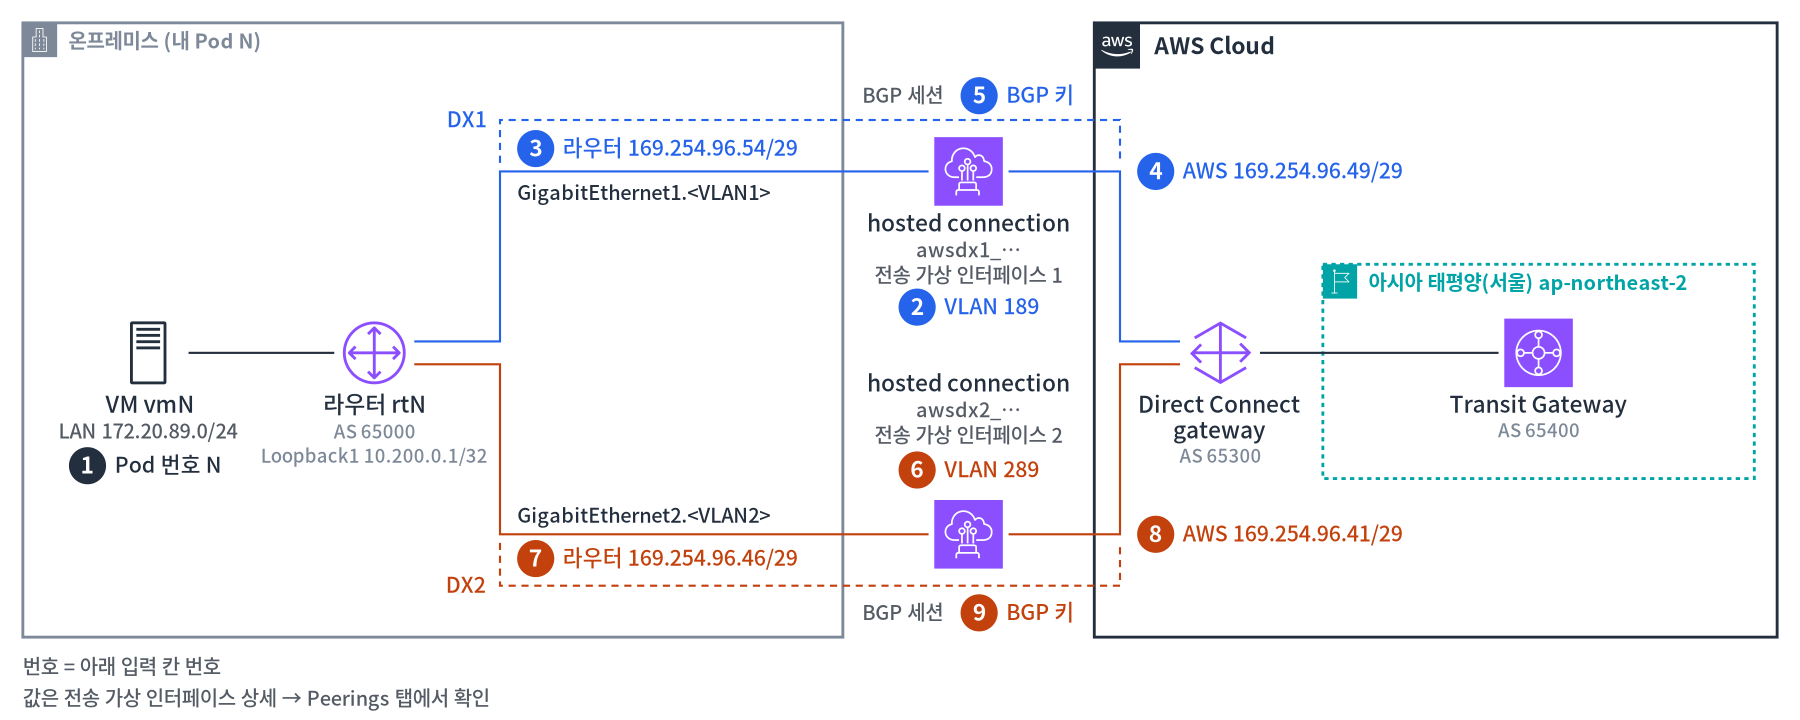
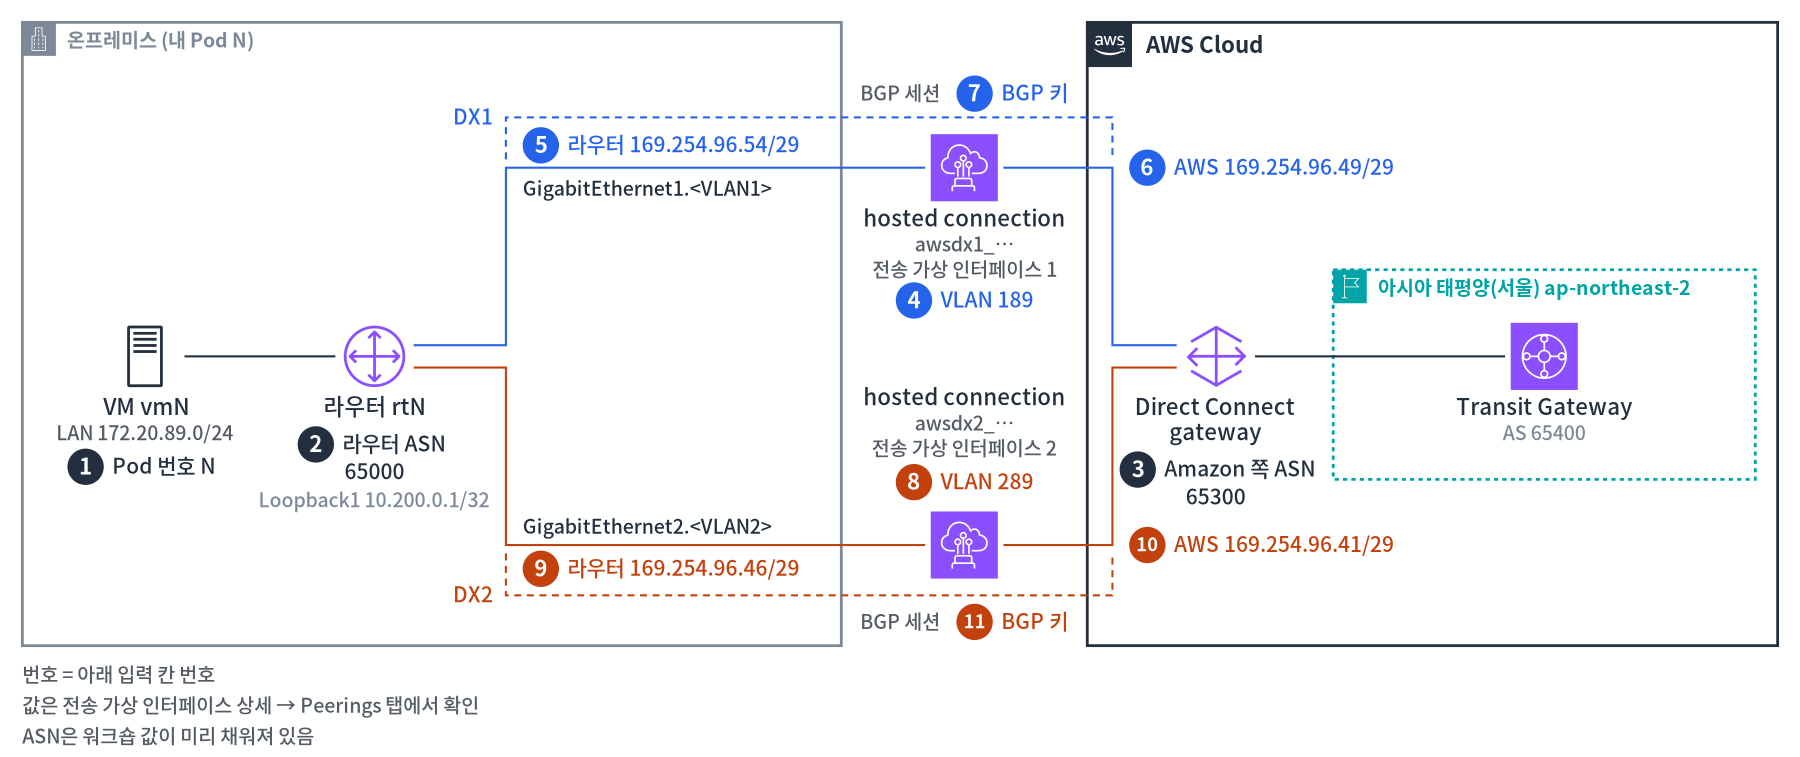
Prefill the router and Amazon-side ASNs in the generator and renumber the value-map badges to match

Changed region(s): [[0.0, 0.0306, 0.9956, 1.0], [0.0311, 0.4278, 0.28, 0.6722], [0.0, 0.0306, 0.4667, 0.0917]]

diff --git a/docs/assets/extra.css b/docs/assets/extra.css
@@ -67,9 +67,12 @@
   display: inline-flex;
   align-items: center;
   justify-content: center;
-  width: 1.35em;
+  box-sizing: border-box;
+  min-width: 1.35em;
   height: 1.35em;
-  border-radius: 50%;
+  padding: 0 0.25em;
+  border-radius: 0.7em;
+  letter-spacing: -0.03em;
   background: var(--gen-c, var(--gen-common));
   color: #fff;
   font-size: 0.75rem;
@@ -97,7 +100,7 @@
   display: inline-flex;
   gap: 0.15rem;
   justify-content: flex-end;
-  width: 3.4em;
+  width: 4.6em;
   padding-right: 0.6em;
   user-select: none;
   -webkit-user-select: none;

diff --git a/docs/lab1.md b/docs/lab1.md
@@ -78,7 +78,7 @@ hosted connection 하나에는 전송 가상 인터페이스를 하나만 만들
 ## 1-5. 라우터 설정 { #lab1-5 }
 
 1. [라우터 설정 생성기](router-config.md)를 새 탭으로 엽니다.
-2. 페이지 위 그림에서 각 값이 어디에 쓰이는지 번호로 확인합니다. Pod 번호는 ①, `tgw-nat-vif1` 값은 DX1(②–⑤), `tgw-nat-vif2` 값은 DX2(⑥–⑨) 칸에 넣습니다. 설정이 만들어지면 **복사**를 누릅니다.
+2. 페이지 위 그림에서 각 값이 어디에 쓰이는지 번호로 확인합니다. Pod 번호는 ①에 넣습니다. ASN(②③)은 워크숍 값이 미리 채워져 있으니 1-1, 1-3에서 넣은 값과 같은지만 봅니다. `tgw-nat-vif1` 값은 DX1(④–⑦), `tgw-nat-vif2` 값은 DX2(⑧–⑪) 칸에 넣습니다. 설정이 만들어지면 **복사**를 누릅니다.
 3. 라우터 `rtN` 웹 터미널에 붙여 넣습니다. `%`로 시작하는 오류가 없으면 됩니다.
 
 설정이 하는 일은 [라우터 설정 생성기](router-config.md#explain) 페이지에 설명해 두었습니다.
